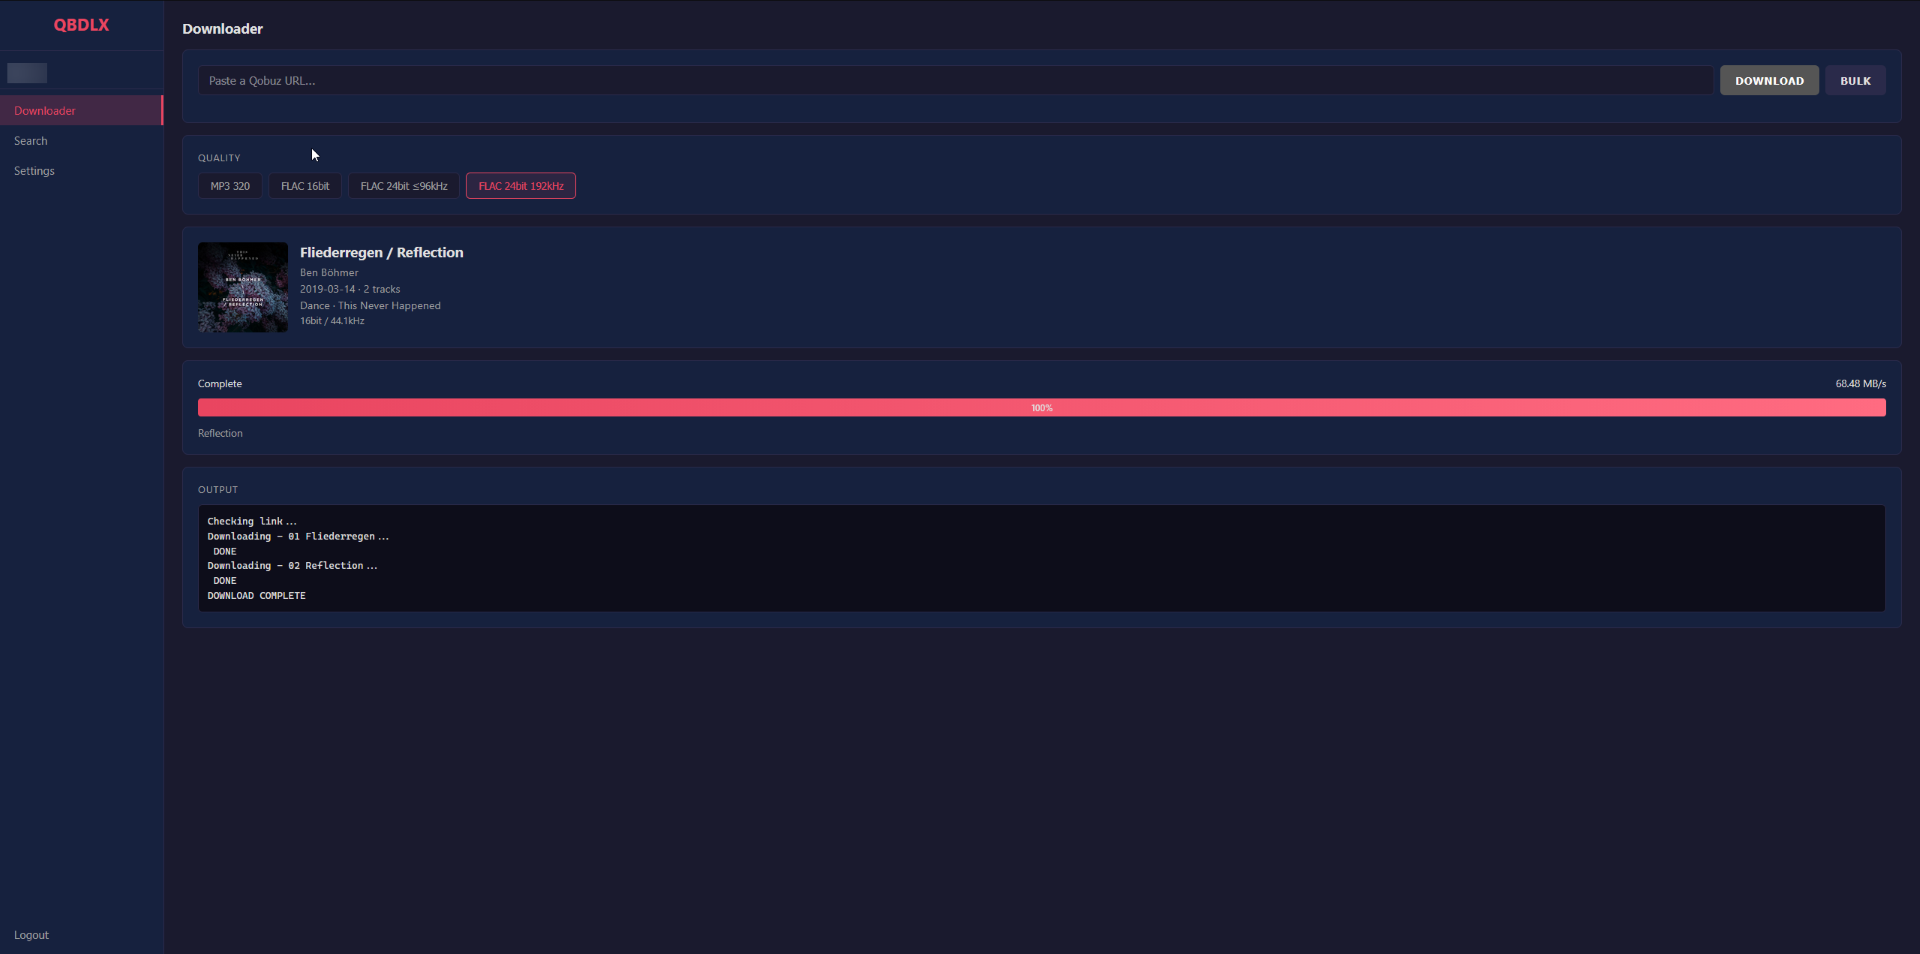
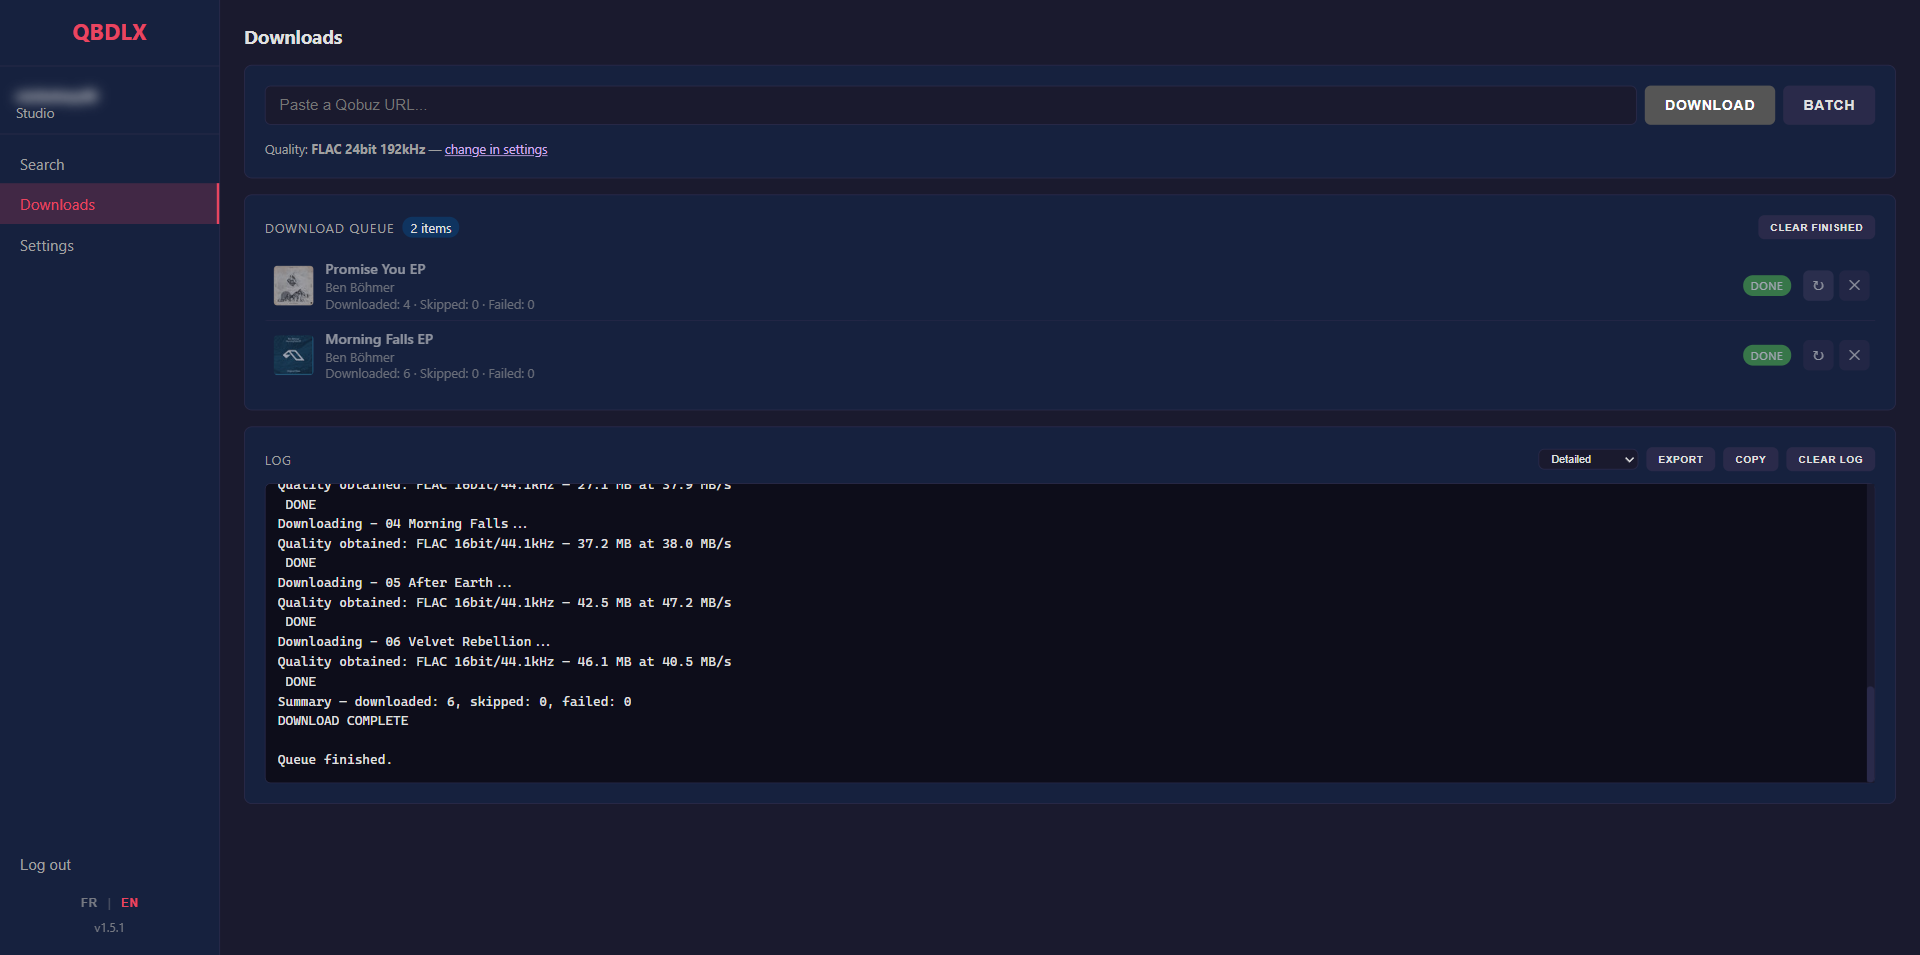
docs(screenshots): retake the screenshots with the current interface

diff --git a/README.md b/README.md
@@ -40,9 +40,9 @@ A self-hosted web application for downloading high-quality music from Qobuz. Bui
 
 ## Screenshots
 
-| Downloader | Search | Settings |
+| Downloads | Search | Settings |
 |:---:|:---:|:---:|
-| ![Downloader](screenshots/downloader.png) | ![Search](screenshots/search.png) | ![Settings](screenshots/settings.png) |
+| ![Downloads](screenshots/downloader.png) | ![Search](screenshots/search.png) | ![Settings](screenshots/settings.png) |
 
 ---
 
